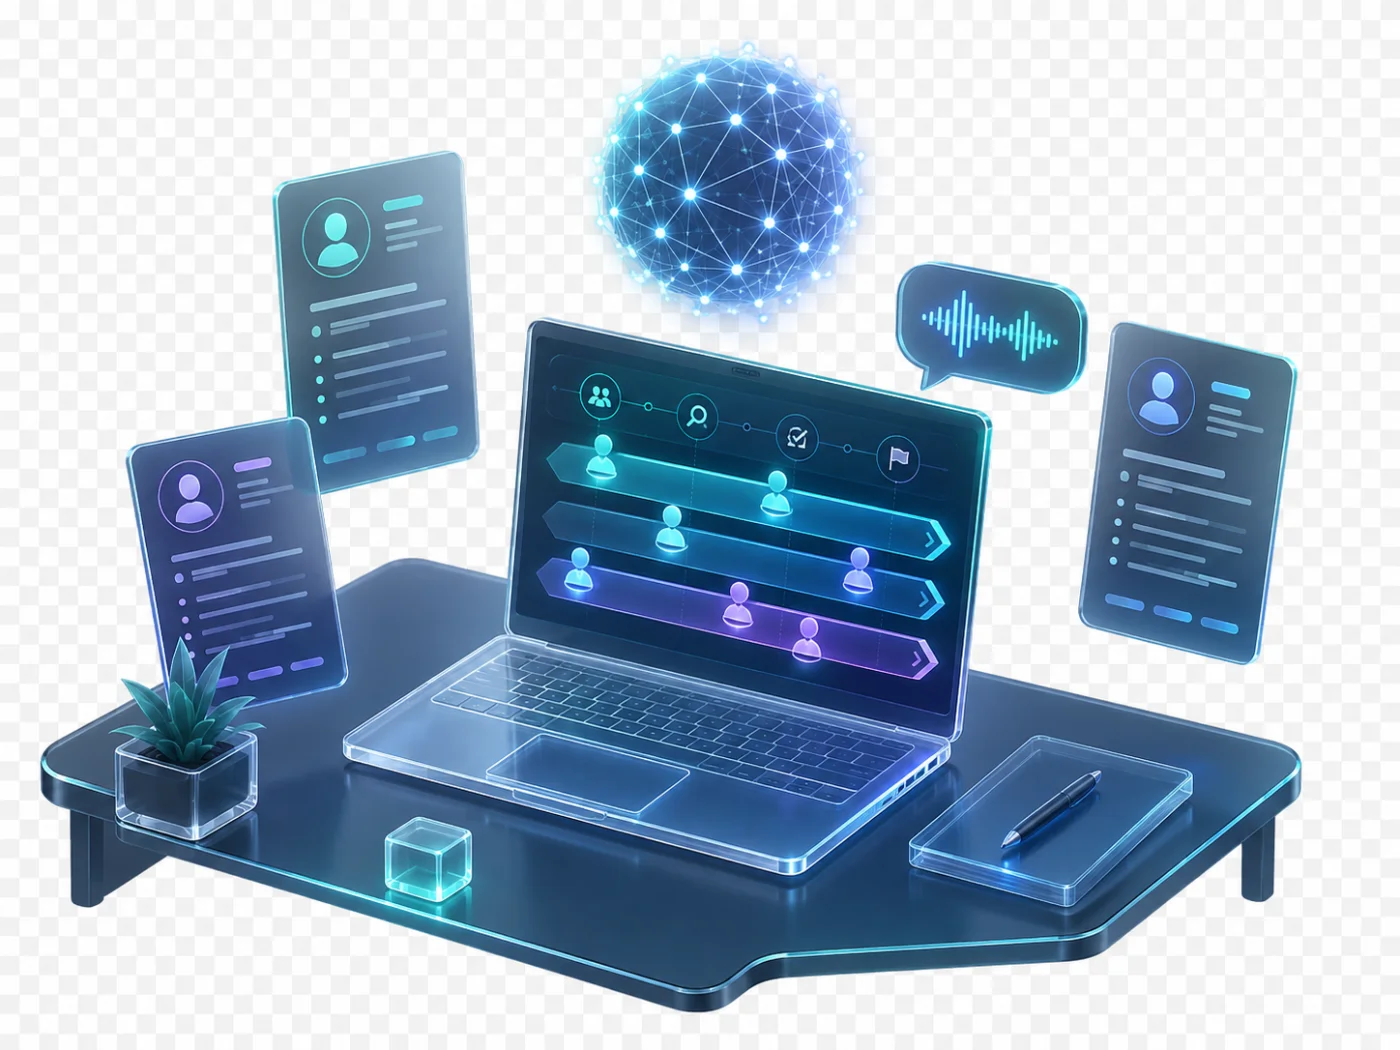
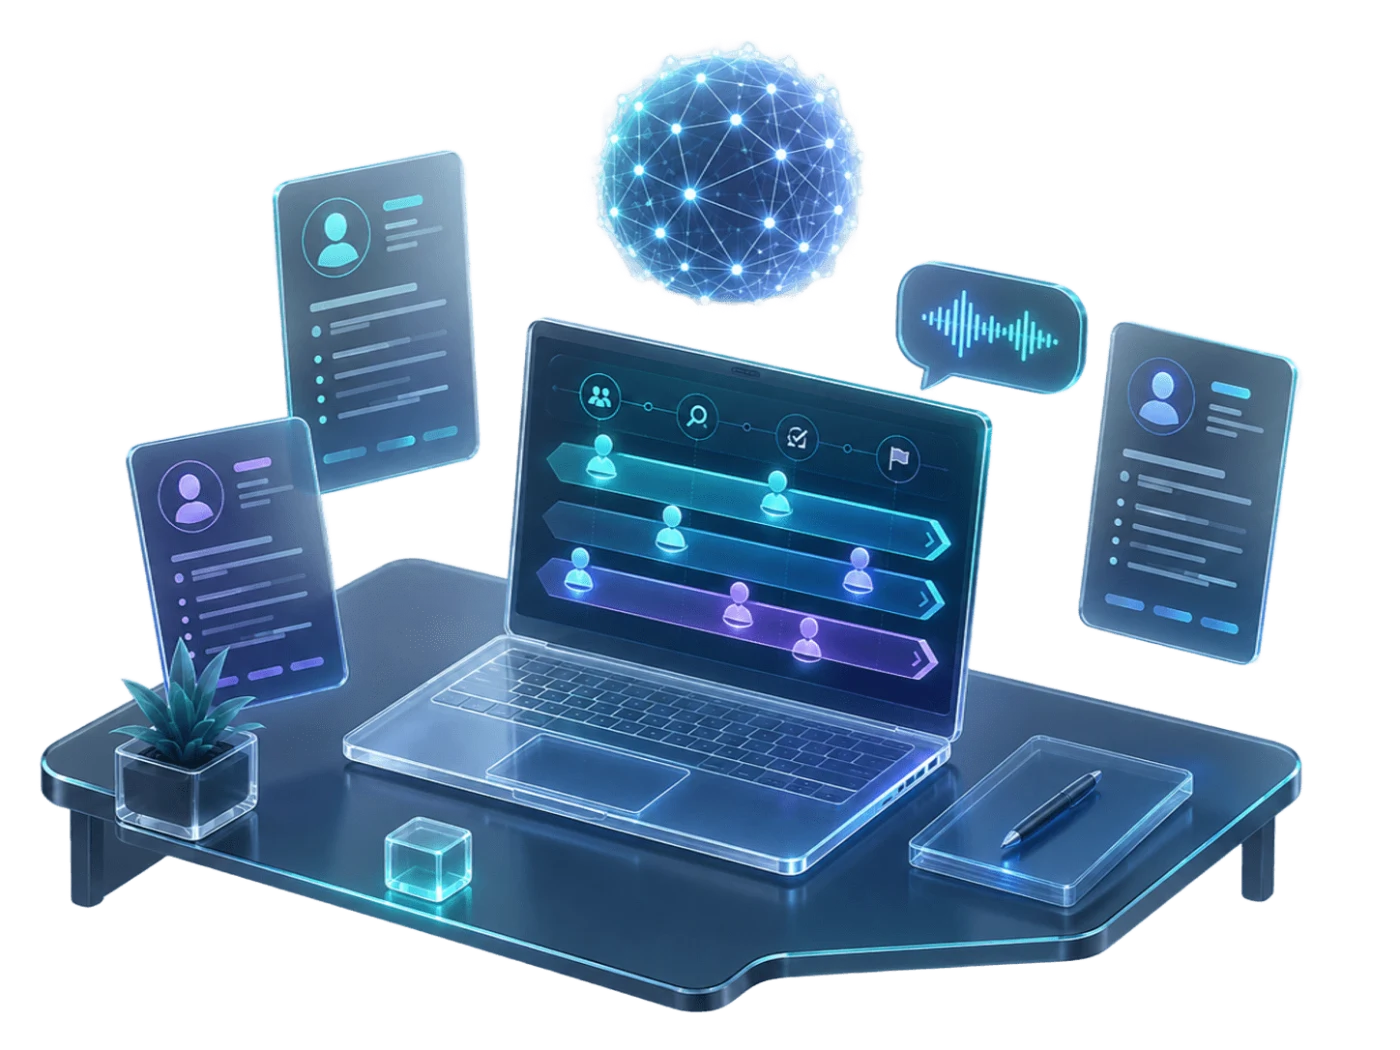
feat(landing): swap hero illustration to transparent-bg version + drop glass frame
User regenerated the hero with a clean transparent background, so the
glassmorphic device frame I added to hide the alpha-checker pattern is
no longer needed. Illustration now floats freely with a soft radial
glow + indigo drop shadow, and the three floating chips reposition
slightly so they ring the artwork instead of the frame edges.

Changed region(s): [[0.43, 0.2133, 0.5836, 0.3352], [0.6143, 0.1524, 0.645, 0.2133], [0.5836, 0.2133, 0.6143, 0.2743]]

diff --git a/frontend/src/app/page.tsx b/frontend/src/app/page.tsx
@@ -153,39 +153,30 @@ export default async function LandingPage() {
             </ul>
           </div>
 
-          {/* Right column — illustration wrapped in a glassmorphic frame
-              so the artwork's baked-in alpha checker doesn't bleed
-              against the page background. Floating decorative chips
-              + soft glow add depth without needing more art. */}
+          {/* Right column — illustration floats freely (transparent
+              background, no frame needed). Radial glow + decorative
+              chips add depth without obscuring the artwork. */}
           <div className="relative">
-            {/* Outer ambient glow */}
+            {/* Soft ambient glow behind the illustration */}
             <div
               aria-hidden
-              className="absolute inset-0 -m-12 rounded-[3rem] bg-[radial-gradient(closest-side,rgba(99,102,241,0.25),transparent_70%)] blur-2xl"
+              className="absolute inset-0 -m-8 rounded-[3rem] bg-[radial-gradient(closest-side,rgba(99,102,241,0.28),transparent_70%)] blur-2xl pointer-events-none"
             />
 
-            <div className="relative animate-float">
-              {/* Glass card frame */}
-              <div className="relative rounded-[2rem] bg-gradient-to-br from-white/80 via-white/40 to-blue-100/60 backdrop-blur-md ring-1 ring-white/60 shadow-2xl shadow-blue-900/10 p-2 sm:p-3">
-                <div className="relative aspect-[5/4] w-full overflow-hidden rounded-[1.5rem] bg-gradient-to-br from-slate-50 via-white to-blue-50">
-                  <Image
-                    src="/landing/hero-illustration.webp"
-                    alt="Resume stack flowing into a glowing AI orb that produces approved candidate cards"
-                    fill
-                    priority
-                    sizes="(max-width:1024px) 100vw, 50vw"
-                    className="object-contain p-2"
-                  />
-                  {/* Soft inner highlight */}
-                  <div
-                    aria-hidden
-                    className="pointer-events-none absolute inset-0 bg-gradient-to-tr from-transparent via-white/0 to-white/30"
-                  />
-                </div>
+            <div className="relative">
+              <div className="relative aspect-[5/4] w-full animate-float">
+                <Image
+                  src="/landing/hero-illustration.webp"
+                  alt="Resume stack flowing into a glowing AI orb that produces approved candidate cards"
+                  fill
+                  priority
+                  sizes="(max-width:1024px) 100vw, 50vw"
+                  className="object-contain drop-shadow-[0_30px_60px_rgba(37,99,235,0.22)]"
+                />
               </div>
 
               {/* Floating chip — top-left */}
-              <div className="hidden sm:flex absolute -top-4 -left-5 items-center gap-2 px-3 py-2 rounded-xl bg-white shadow-xl shadow-blue-900/10 ring-1 ring-slate-200 animate-float-slow">
+              <div className="hidden sm:flex absolute top-2 -left-2 lg:-left-6 items-center gap-2 px-3 py-2 rounded-xl bg-white shadow-xl shadow-blue-900/10 ring-1 ring-slate-200 animate-float-slow">
                 <span className="inline-flex w-7 h-7 rounded-lg bg-emerald-100 text-emerald-700 items-center justify-center">
                   <CheckIcon className="w-4 h-4" />
                 </span>
@@ -198,7 +189,7 @@ export default async function LandingPage() {
               </div>
 
               {/* Floating chip — bottom-right */}
-              <div className="hidden sm:flex absolute -bottom-5 -right-4 items-center gap-2 px-3 py-2 rounded-xl bg-white shadow-xl shadow-indigo-900/10 ring-1 ring-slate-200 animate-float-delayed">
+              <div className="hidden sm:flex absolute bottom-2 -right-2 lg:-right-6 items-center gap-2 px-3 py-2 rounded-xl bg-white shadow-xl shadow-indigo-900/10 ring-1 ring-slate-200 animate-float-delayed">
                 <span className="inline-flex w-7 h-7 rounded-lg bg-indigo-100 text-indigo-700 items-center justify-center">
                   <PhoneIcon className="w-4 h-4" />
                 </span>
@@ -210,9 +201,9 @@ export default async function LandingPage() {
                 </div>
               </div>
 
-              {/* Floating chip — middle-right */}
-              <div className="hidden lg:flex absolute top-1/3 -right-8 items-center gap-2 px-3 py-2 rounded-xl bg-slate-900 text-white shadow-2xl shadow-slate-900/20 animate-float">
-                <span className="inline-flex w-2 h-2 rounded-full bg-emerald-400 animate-pulse" />
+              {/* Floating chip — middle-right (dark) */}
+              <div className="hidden lg:flex absolute top-1/3 right-0 items-center gap-2 px-3 py-2 rounded-xl bg-slate-900 text-white shadow-2xl shadow-slate-900/25 animate-float">
+                <span className="inline-flex w-2 h-2 rounded-full bg-emerald-400 animate-soft-pulse" />
                 <div className="leading-tight">
                   <p className="text-[10px] uppercase tracking-wider text-slate-400 font-semibold">
                     Score